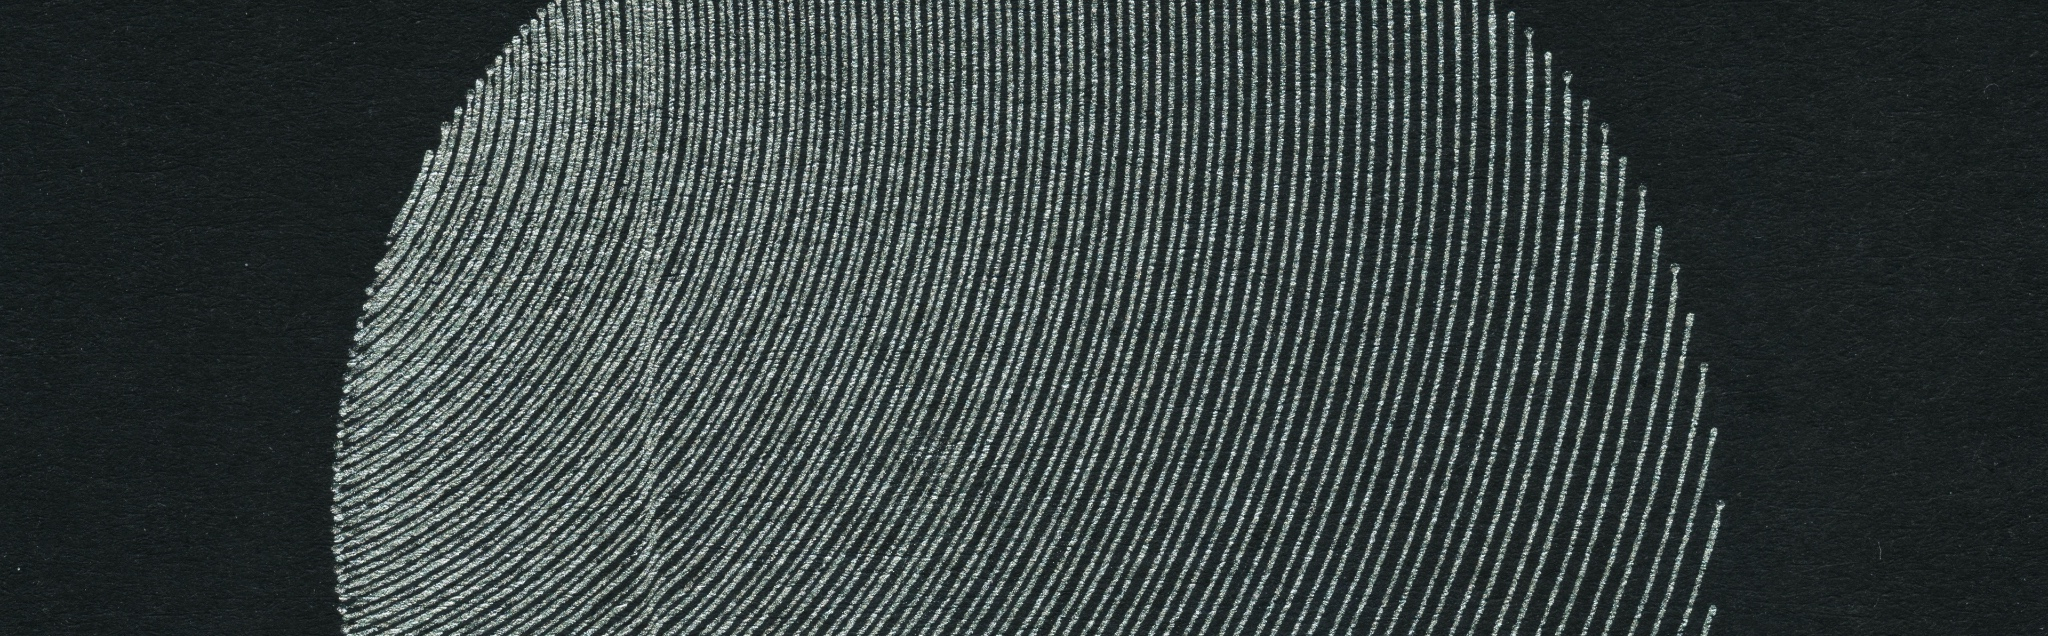
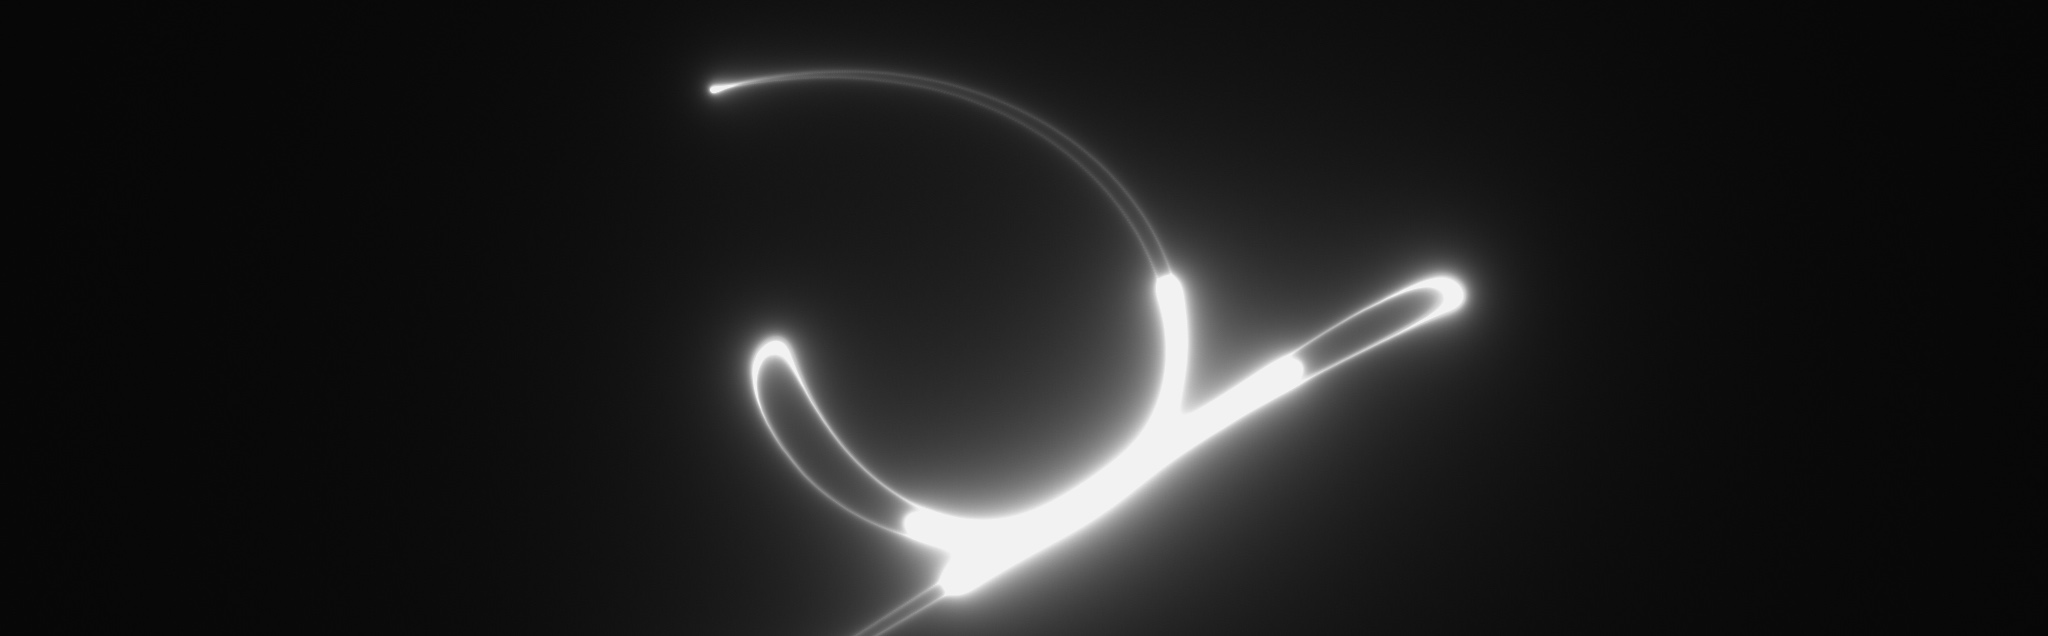
released Pełnia video

diff --git a/content/posts/pelnia.md b/content/posts/pelnia.md
@@ -1,5 +1,5 @@
 date: 2025-11-05
-collections: [music, pen plotter]
+collections: [music, procedural]
 theme: black
 index:
   subtitle: journey through the night
@@ -10,6 +10,17 @@ description: Sleep well, stranger.
 Pełnia
 ======
 
-[![](cover.jpg)](https://narfdotpl.bandcamp.com/album/pelnia)
+{{ youtube_iframe('6NFGnBujEYE') }}
 
-I've released an ambient/experimental piece of music called *Pełnia* (the full moon in Polish). It's a journey through the night in three movements, best experienced with eyes closed. Available on [Bandcamp](https://narfdotpl.bandcamp.com/album/pelnia).
+Sleep well, stranger.
+
+- [Bandcamp](https://narfdotpl.bandcamp.com/album/pelnia) -- pay what you want
+- [YouTube](https://youtu.be/6NFGnBujEYE)
+
+<br/>
+
+Here's *Pełnia* (the full moon in Polish), a hypnotic textural music experiment in three movements, with a companion compute shader visualization inspired by vector displays — where a beam of light traces the movement of speaker membranes. The video is controlled by the music, with additional modulation and movement guided by hand(written code).
+
+This piece started as an exploration of the recently updated Auto Filter device in Ableton Live and, well, took on a life of its own. If you look at the [project file](ableton-project.png) (and disregard the vinyl clicks that appear in the middle section), you can see that the whole thing is just a single continuous synth track with two synths in parallel playing very few notes. Instead, the movement of the sound is achieved via modulation of various parameters of instruments and effects -- 45 automation lanes to be exact.
+
+Thank you for listening.